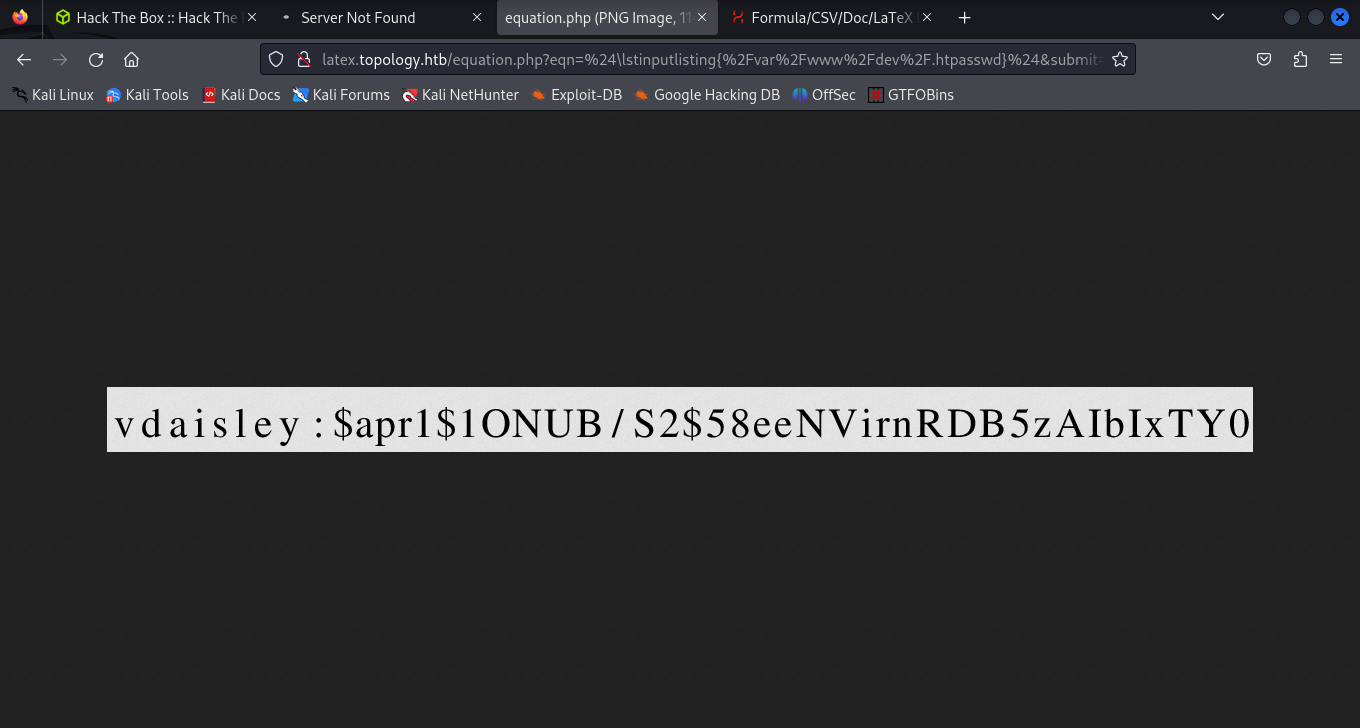
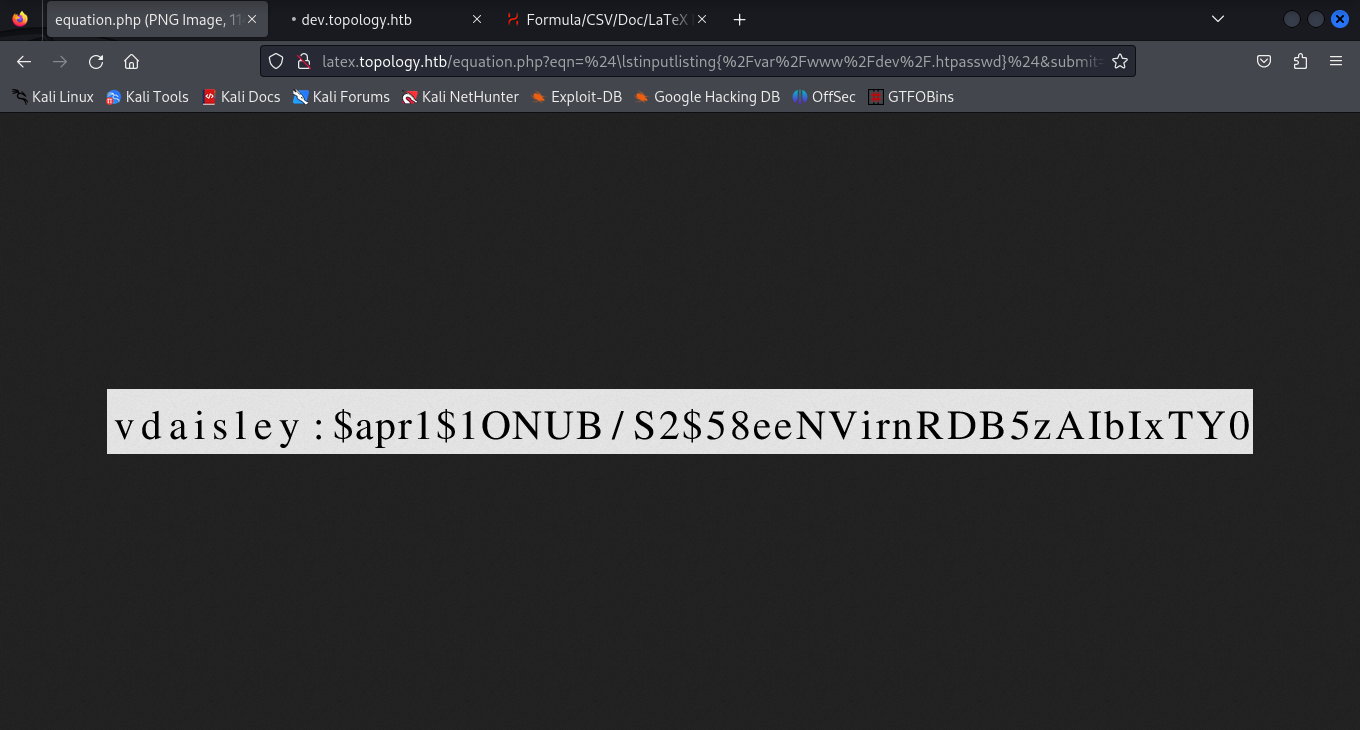
Write-up

diff --git a/HackTheBox/topology/README.MD b/HackTheBox/topology/README.MD
@@ -1,8 +1,8 @@
 
-<img align="center" height="500" alt="coding-time" src="./img/congrats.png">
+<img align="center" height="800" alt="coding-time" src="./img/congrats.png">
 </br>
 
-# 16/09/2023
+# Topology
 
 # Recon
 Default nmap Scan open ports:
@@ -41,10 +41,12 @@ Nmap done: 1 IP address (1 host up) scanned in 21.79 seconds
 ```
 From the NMAP scan, ports 80 and 22 were discoverable. So I proceeded to go to the website.
 
+<img src="/img/site.png">
+By visiting the site we can see that the domain is topology.htb. 
+
+
 # Enumeration
 
-By visiting the site we can see that the domain is topology.htb. 
-<br>
 
 ```python
 ffuf -H "Host: FUZZ.topology.htb" -u "http://topology.htb/" -w /usr/share/wordlists/SecLists/Discovery/Web-Content/directory-list-2.3-medium.txt --fs 6767 
@@ -82,18 +84,16 @@ ________________________________________________
 ```
 Found two more subdomains dev , stats 
 
-<img src="./img/hosts.jpg">
+<img src="./img/dev.png">
 
 <br>
 
 I roamed the website to find the link LaTex Equation Generator helpful.
+<img src="./img/latex.png">
 
 <br>
-
-<img src="./img/hacktrics.png">
-
 Following this, I search an exploit to work on this function. However, it did not give me any credentials so I had to use the subdomain dev.topology.htb. There is a htpasswd which would give the password of the user. To exploit this the command is shown below.
-
+<img src="./img/hacktricks.png">
 <br>
 
 ```
@@ -110,84 +110,10 @@ To decrypt it, I used the hashcat tool.
 hashcat -m 1600 -a 0 hash.txt /usr/share/wordlists/rockyou.txt 
 ```
 <br>
-
-```python
-hashcat (v6.2.6) starting
-
-OpenCL API (OpenCL 3.0 PoCL 4.0+debian  Linux, None+Asserts, RELOC, SPIR, LLVM 15.0.7, SLEEF, DISTRO, POCL_DEBUG) - Platform #1 [The pocl project]
-==================================================================================================================================================
-* Device #1: cpu-sandybridge-AMD Ryzen 5 5600G with Radeon Graphics, 1432/2929 MB (512 MB allocatable), 4MCU
-
-Minimum password length supported by kernel: 0
-Maximum password length supported by kernel: 256
-
-Hashes: 1 digests; 1 unique digests, 1 unique salts
-Bitmaps: 16 bits, 65536 entries, 0x0000ffff mask, 262144 bytes, 5/13 rotates
-Rules: 1
-
-Optimizers applied:
-* Zero-Byte
-* Single-Hash
-* Single-Salt
-
-ATTENTION! Pure (unoptimized) backend kernels selected.
-Pure kernels can crack longer passwords, but drastically reduce performance.
-If you want to switch to optimized kernels, append -O to your commandline.
-See the above message to find out about the exact limits.
-
-Watchdog: Temperature abort trigger set to 90c
-
-Host memory required for this attack: 0 MB
-
-Dictionary cache built:
-* Filename..: /usr/share/wordlists/rockyou.txt
-* Passwords.: 14344392
-* Bytes.....: 139921507
-* Keyspace..: 14344385
-* Runtime...: 1 sec
-
-Cracking performance lower than expected?                 
-
-* Append -O to the commandline.
-  This lowers the maximum supported password/salt length (usually down to 32).
-
-* Append -w 3 to the commandline.
-  This can cause your screen to lag.
-
-* Append -S to the commandline.
-  This has a drastic speed impact but can be better for specific attacks.
-  Typical scenarios are a small wordlist but a large ruleset.
-
-* Update your backend API runtime / driver the right way:
-  https://hashcat.net/faq/wrongdriver
-
-* Create more work items to make use of your parallelization power:
-  https://hashcat.net/faq/morework
-
+```code 
 $apr1$1ONUB/S2$58eeNVirnRDB5zAIbIxTY0:calculus20          
-                                                          
-Session..........: hashcat
-Status...........: Cracked
-Hash.Mode........: 1600 (Apache $apr1$ MD5, md5apr1, MD5 (APR))
-Hash.Target......: $apr1$1ONUB/S2$58eeNVirnRDB5zAIbIxTY0
-Time.Started.....: Sun Sep 17 01:36:11 2023 (45 secs)
-Time.Estimated...: Sun Sep 17 01:36:56 2023 (0 secs)
-Kernel.Feature...: Pure Kernel
-Guess.Base.......: File (/usr/share/wordlists/rockyou.txt)
-Guess.Queue......: 1/1 (100.00%)
-Speed.#1.........:    22193 H/s (11.21ms) @ Accel:128 Loops:500 Thr:1 Vec:8
-Recovered........: 1/1 (100.00%) Digests (total), 1/1 (100.00%) Digests (new)
-Progress.........: 997376/14344385 (6.95%)
-Rejected.........: 0/997376 (0.00%)
-Restore.Point....: 996864/14344385 (6.95%)
-Restore.Sub.#1...: Salt:0 Amplifier:0-1 Iteration:500-1000
-Candidate.Engine.: Device Generator
-Candidates.#1....: cam1023 -> cajun3
-Hardware.Mon.#1..: Util: 89%
-
-Started: Sun Sep 17 01:35:36 2023
-Stopped: Sun Sep 17 01:36:57 2023
-```
+```     
+                                                     
 <br>
 When decrypted, the password is calculus20
 After cracking that hash you can log in as vdaisley using ssh 
@@ -206,13 +132,13 @@ To obtain root status we must find exploit pspy86. Gnuplot uses plt files.
 From uploading the file using wget, I managed to make it executable and so I was able to run it.
 <br>
 
-<img src="./img/psy.png">
+<img src="./img/pspy.png">
 
 The following command made a plt file inside a directory and with the statement system chmod u+s. Bash -p ran the command and made me root. 
 
 <br>
 
-<img src="./img/root.png">
+<img src="./img/priv.png">
 From there I was able to switch directories and was able to cat out the root.txt
 
 
